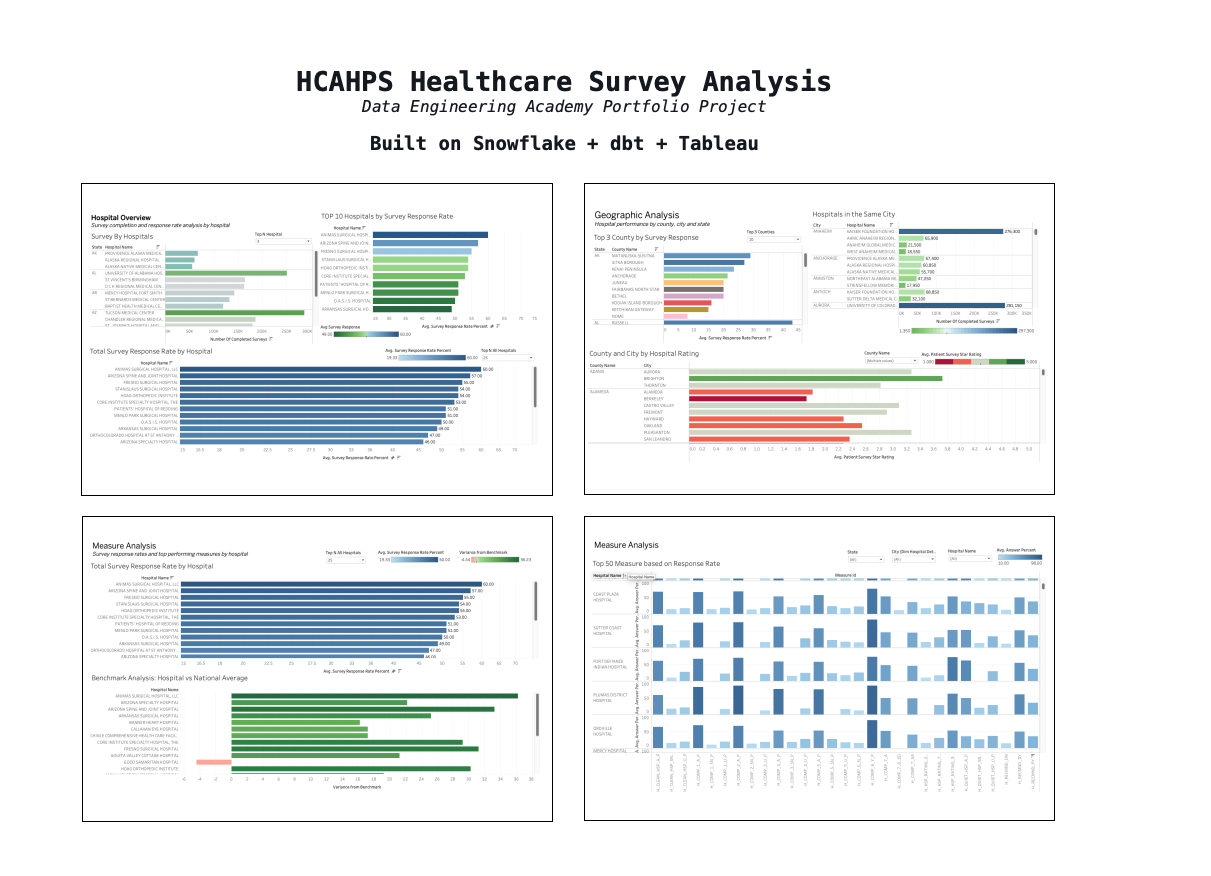
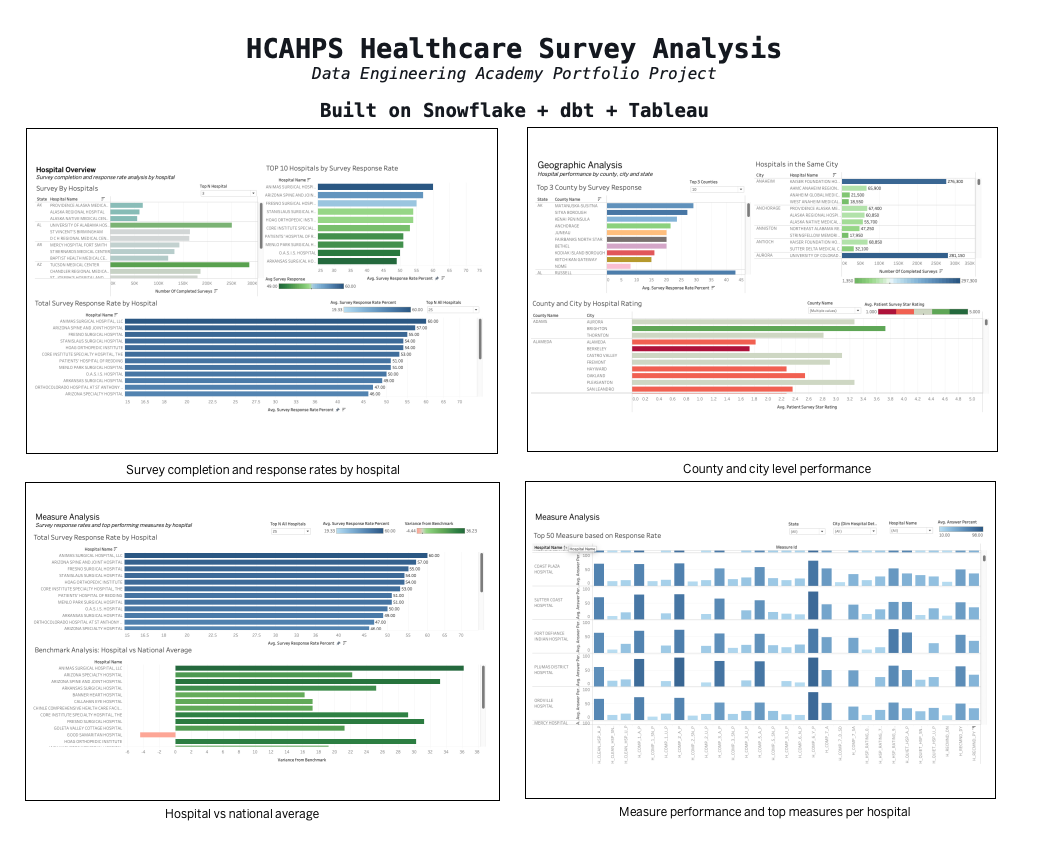
changes to readme and dashboard

Changed region(s): [[0.0308, 0.0309, 0.9249, 0.5249], [0.0308, 0.5249, 0.9557, 0.9881], [0.4933, 0.9264, 0.8632, 0.9881]]

diff --git a/README.md b/README.md
@@ -278,6 +278,37 @@ LEFT JOIN ensures all 34,999 source rows are preserved even if a dimension join 
 
 ![Home Dashboard](tableau/Home.png)
 
+Built a multi-dashboard Tableau workbook connected directly to the Snowflake star schema (GOLD_MARTS), allowing dynamic aggregations and interactive filtering across all visualizations.
+
+### Dashboard Structure
+
+| Dashboard | Description |
+|---|---|
+| Home | Landing page with navigation to all four dashboards |
+| Hospital Overview | Survey completion and response rates by hospital |
+| Geographic Analysis | County and city level performance across states |
+| Measure Analysis | Response rate distribution and top measures per hospital |
+| Benchmark Analysis | Hospital performance compared to national average |
+
+### Key Visualizations
+
+- Horizontal bar chart: Top N hospitals by completed surveys per state (dynamic parameter)
+- Box and whisker plot: Survey response rate distribution across 50 measures
+- Gradient bar chart: Top N counties by response rate with state drill down
+- Drill down hierarchy: County to city to hospital star rating
+- Diverging bar chart: Hospital variance from national benchmark (red/green)
+- Grouped bar chart: Top measures per hospital by answer percent
+
+### Interactive Features
+
+- Cascading state, city, and hospital dropdowns applied across all dashboards
+- Top N parameters (10, 20, 30, 50) controlling chart depth on every view
+- Cross dashboard navigation via buttons on every page
+- Measure filter on the Measure Analysis dashboard
+
+### Tableau Public
+
+[View Live Dashboard](#) — link coming soon
 ## Author
 
 Talib Hussain